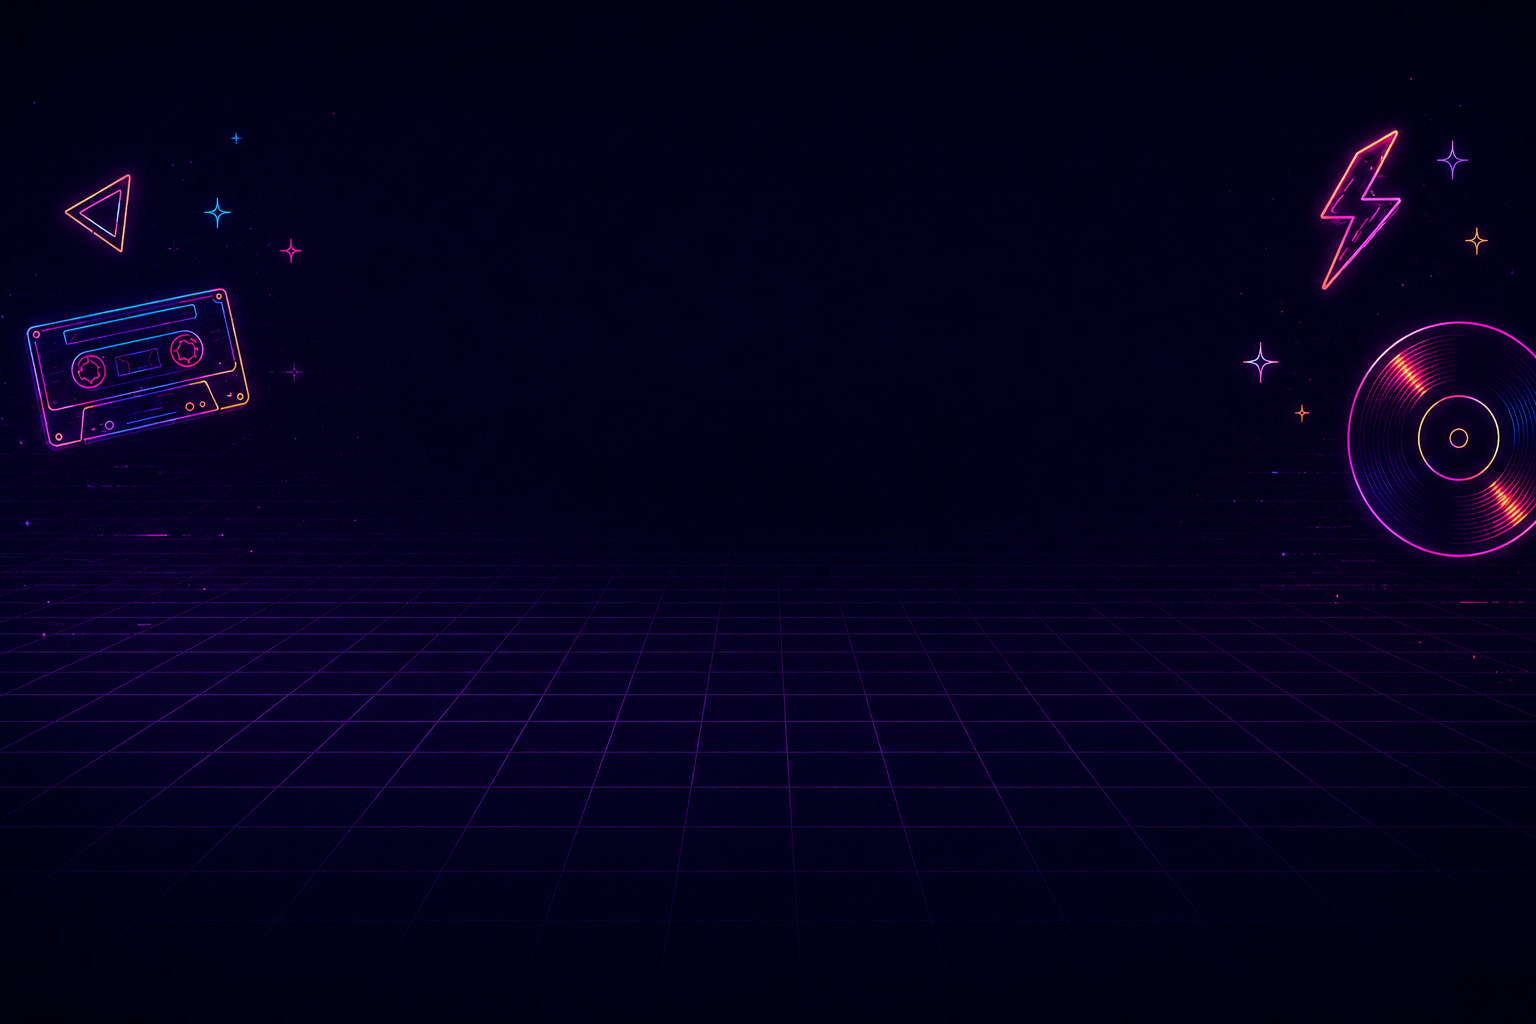
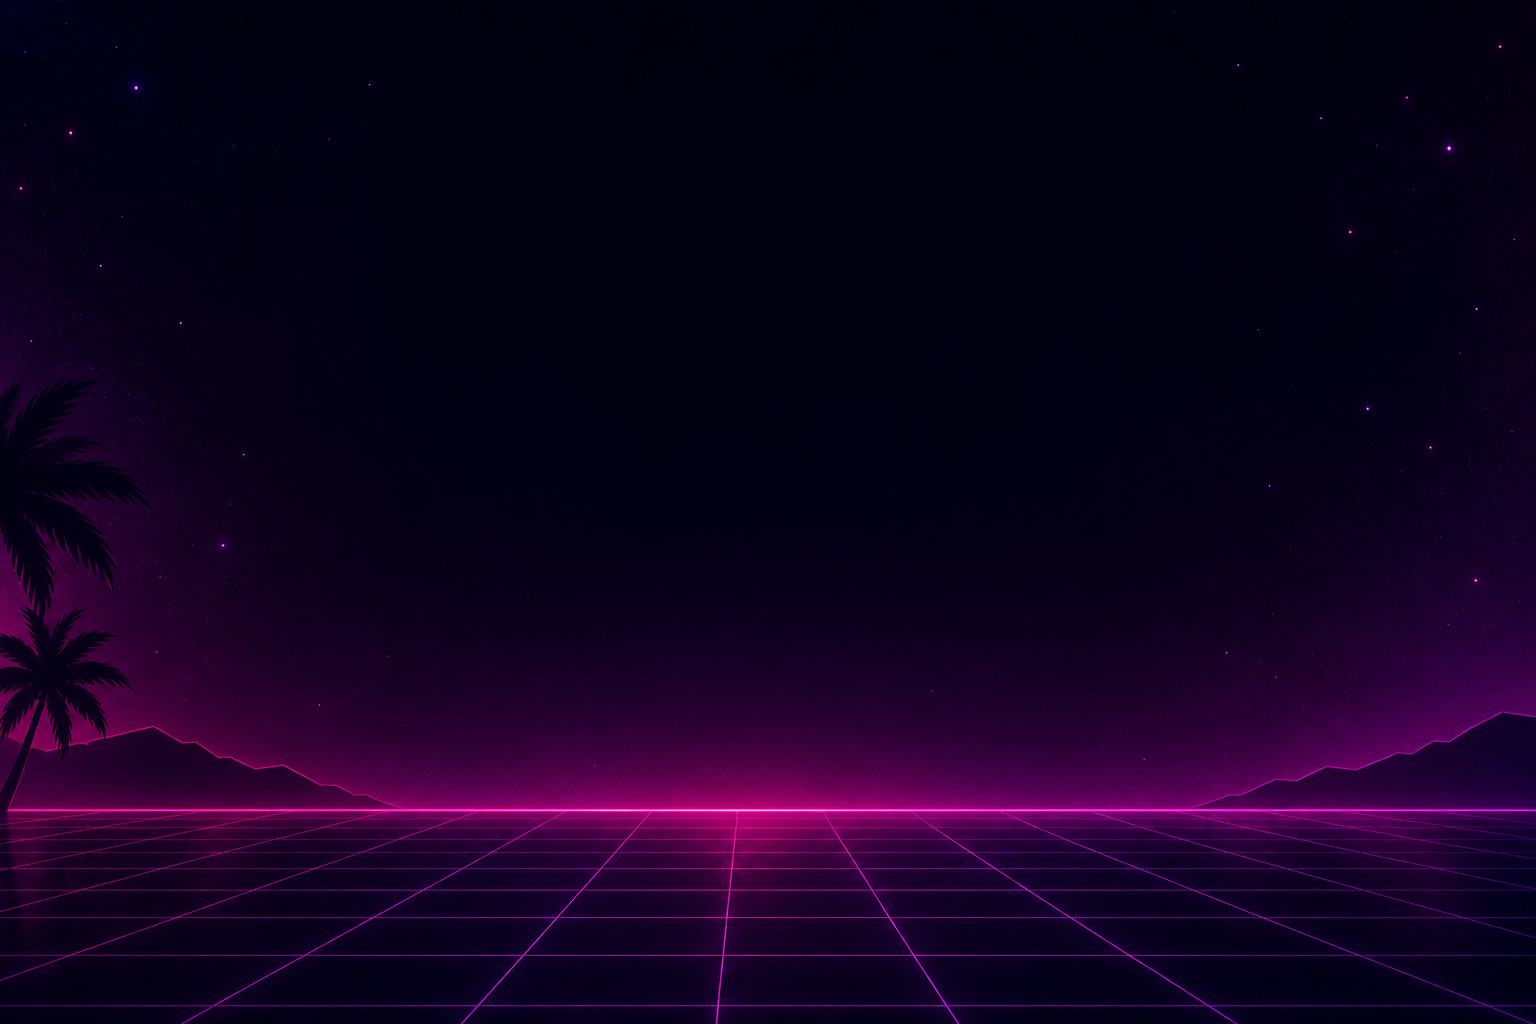
troquei o fundo do cardapio

diff --git a/css/divulgacao/cardapio.css b/css/divulgacao/cardapio.css
@@ -145,8 +145,15 @@ main {
 
 #itens-cardapio-secao{
 
+    background-image: url(../../img/fundo_cardapio.png);
+  background-color: #0b021a; 
+  background-attachment: fixed; 
+  background-size: cover; 
+  background-position: center top; 
+  background-repeat: no-repeat;
+  min-height: 100vh;
+  min-height: 800px;
   
-  background-color: black;
 
 }
 

diff --git a/php_html/divulgacao/quem_somos.php b/php_html/divulgacao/quem_somos.php
@@ -18,13 +18,12 @@
     <main>
         <div class="container-fluid p-0 ">
 
-            <!-- SEÇÃO 1: TÍTULO E GLOBO -->
             <section class="quem-somos">
                 <div class="container">
-                    <!-- align-items-center alinha globo e texto no meio -->
+               
                     <div class="row m-0 linha-titulo align-items-center">
 
-                        <!-- COLUNA DO TEXTO: Fica embaixo no celular (order-2) e na esquerda no PC (order-md-1) -->
+                  
                         <div class="col-12 col-md-6 titulo-quem-somos mb-4 mb-md-0 d-flex flex-column align-items-center align-items-md-start text-center text-md-start order-2 order-md-1">
                             <h1>
                                 <span class="">Quem</span>
@@ -33,9 +32,9 @@
                             <h2>O Disco Burguer nasceu da paixão por música boa e hambúrguer de verdade. Fundado em 2024, trazemos uma experiência retro-moderna para os nossos clientes.</h2>
                         </div>
 
-                        <!-- COLUNA DO GLOBO: Fica em cima no celular (order-1) e na direita no PC (order-md-2) -->
+                    
                         <div class="col-12 col-md-6 bola mt-4 mt-md-0 order-1 order-md-2">
-                            <!-- img-fluid garante que o globo não vaze no celular -->
+                       
                             <img class="img-bola_cristal img-fluid" src="../../img/globo.png" alt="Globo de Cristal">
                         </div>
 
@@ -43,13 +42,13 @@
                 </div>
             </section>
 
-            <!-- SEÇÃO 2: TEXTO DA MISSÃO E FOTO DO GRUPO -->
+            
             <section class="texto-quem-somos">
                 <div class="card-quem-somos">
                     <!-- Adicionei w-100 para o row preencher todo o card -->
                     <div class="row w-100 m-0 align-items-stretch">
 
-                        <!-- COLUNA DO TEXTO: Fica embaixo no celular (order-2) e na esquerda no PC (order-md-1) -->
+                  
                         <div class="col-12 col-md-6 mb-5 mb-md-0 order-2 order-md-1">
 
                             <div class="container-titulo-missao justify-content-center justify-content-md-start mt-4 mt-md-0">
